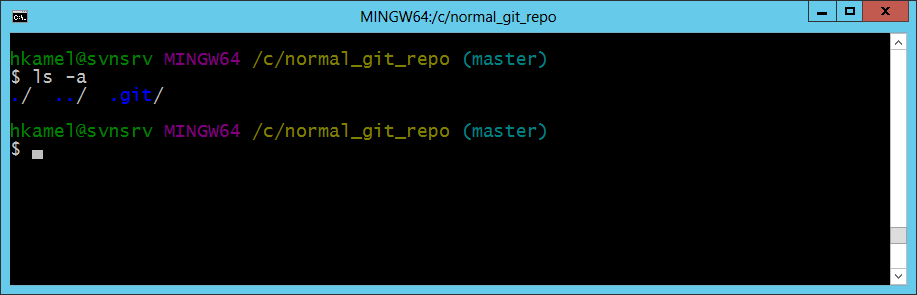
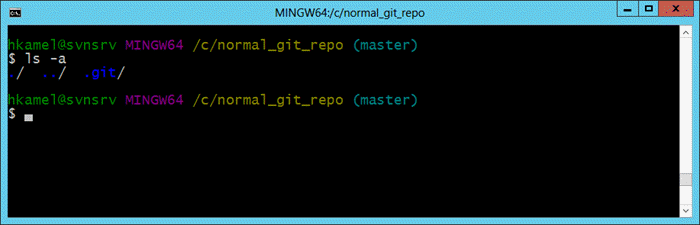
Resize images and run a final spell/grammar check. (#52)

diff --git a/src/Branching/perform-migration-from-svn-to-git.md b/src/Branching/perform-migration-from-svn-to-git.md
@@ -18,15 +18,15 @@ author: hkamel
 
 When moving to Git from another version control system like Subversion (SVN), we generally recommend that you perform a "[tip migration](https://www.visualstudio.com/learn/centralized-to-git/)", which migrates just the latest version of the repository contents, without including history.  However, many people want to perform a more advanced migration, including history.  This guidance will introduce a history _with_ migration.
 
-Subversion migrations to Git can vary in complexity, depending on how old the repository is and how many branches were created and merged, as well as if you use regular SVN or close relative like SVK to do the branching and merging. If you have a fairly new repository and the standard setup of a trunk, branches, and tags directory, the migration process could be straightforward. However, if your team has done a lot of branching and merging, your repository follows a non-standard directory setup, or your directory setup has changed over time then the migration process could be considerably more complex.
+Subversion migrations to Git can vary in complexity, depending on how old the repository is and how many branches were created and merged, as well as if you use regular SVN or close relative like SVK to do the branching and merging. If you have a new repository and the standard setup of a trunk, branches, and tags directory, the migration process could be straightforward. However, if your team has done a lot of branching and merging, your repository follows a non-standard directory setup, or your directory setup has changed over time then the migration process could be considerably more complex.
 
-There are several ways to migrate from SVN to Git. The approach outlined in this article is based on using [git-svn](https://git-scm.com/docs/git-svn), a Git extension which can be used to checkout a Subversion repository to a local Git repository and then push changes from the local Git repository back to the Subversion repository. These steps provide a detailed overview of the process for migrating from SVN to Git in a Windows environment, without synchronizing back to the original SVN repository. The end result will be a bare Git repository for sharing with the rest of your team.
+There are several ways to migrate from SVN to Git. The approach outlined in this article is based on using [git-svn](https://git-scm.com/docs/git-svn), a Git extension which can be used to checkout a Subversion repository to a local Git repository and then push changes from the local Git repository back to the Subversion repository. These steps give a detailed overview of the process for migrating from SVN to Git in a Windows environment, without synchronizing back to the original SVN repository. The result will be a bare Git repository for sharing with the rest of your team.
 
 > [!NOTE]
 >
 > Before you try to migrate your source code from a centralized version control system to Git, be sure that you familiarize yourself with the differences between centralized and distributed version control systems, and [plan your team's migration](https://www.visualstudio.com/learn/centralized-to-git/). After you've prepared, you can begin the migration.
 
-The high level workflow for migrating from SVN to Git is as follows:
+The high-level workflow for migrating from SVN to Git is as follows:
 
 * Prepare a migration environment
 * Convert the source SVN repository to a local Git repository
@@ -37,7 +37,7 @@ The high level workflow for migrating from SVN to Git is as follows:
 
 ## Prepare a migration environment
 
-A migration environment should be configured on a local workstation. The following software will need to be installed on the migration workstation:
+Configure a migration environment on a local workstation and install the following software:
 
 * [Git](https://git-for-windows.github.io/)
 * [Subversion](http://subversion.apache.org/packages.html)
@@ -48,7 +48,7 @@ You will also need to create a Git repository on your VSTS account to host the c
 
 ## Convert the source SVN repository to a local Git repository
 
-The goal of this step is to convert the source Subversion repository to a local *bare* Git repository. A *bare* Git repository repository does not have a local working checkout of files that can be modified, instead it only contains the repository's history and the metadata about the repository itself.This is the recommended format for sharing a Git repository via a remote repository hosted on a service like VSTS.
+The goal of this step is to convert the source Subversion repository to a local *bare* Git repository. A *bare* Git repository does not have a local working checkout of files that can be changed, instead it only contains the repository's history and the metadata about the repository itself. This is the recommended format for sharing a Git repository via a remote repository hosted on a service like VSTS.
 
 > [!TIP]
 > *bare* Git repositories are structured differently and given the fact that it doesn't have a working directory prevent direct commit to the repository.
@@ -56,7 +56,7 @@ The goal of this step is to convert the source Subversion repository to a local 
 
 ### Retrieve a list of all Subversion authors
 
-Subversion just uses the username for each commit, while Git stores both a real name and an email address. By default, The git-svn tool will list the SVN username in the author and email fields. However, you can create a mapping file for SVN users along with their corresponding Git names and emails.
+Subversion just uses the username for each commit, while Git stores both a real name and an email address. By default, the git-svn tool will list the SVN username in the author and email fields. However, you can create a mapping file for SVN users along with their corresponding Git names and emails.
 
 
 *Subversion users*
@@ -65,27 +65,27 @@ Subversion just uses the username for each commit, while Git stores both a real 
 *Git users*
 ![git users](_img/perform-migration-from-svn-to-git/git-log.png)
 
-To extract a list of all SVN users, from the root of your local Subversion checkout, run this Powershell command:
+To extract a list of all SVN users, from the root of your local Subversion checkout, run this PowerShell command:
 
 ```
 svn.exe log --quiet | ? { $_ -notlike '-*' } | % { ($_ -split ' | ')[1] } | Select-Object -Unique
 ```
-This command will retrieve all the log messages, extract the usernames, eliminate any duplicate usernames, sort the usernames and place them into a "authors-transform.txt" file. You can then edit each line in the file to create a mapping of SVN users to a well-formatted Git user. For example, you can map `willys = willys <willys> ` to `willys =  Willy-Peter Schaub <willys@microsoft.com>` .
+This command will retrieve all the log messages, extract the usernames, eliminate any duplicate usernames, sort the usernames and place them into a "authors-transform.txt" file. You can then edit each line in the file to create a mapping of SVN users to a well-formatted Git user. For example, you can map `willys = willys <willys> ` to `willys =  Willy Schaub <willys@microsoft.com>`.
 
 ### Clone the Subversion repository using git-svn
 
-The following command will do the standard git-svn transformation using the authors-transform.txt file created in the previous step. It will place the Git repository in the `c:\mytempdir` folder in your local machine.
+The following command will do the standard git-svn transformation using the authors-transform.txt file created in the earlier step. It will place the Git repository in the `c:\mytempdir` folder in your local machine.
 ```
 git svn clone ["SVN repo URL"] --prefix=svn/ --no-metadata --authors-file "authors-transform.txt" --stdlayout c:\mytempdir
 ```
 
 > [!NOTE]
 >
-> The --prefix=svn/ is necessary because otherwise the tools can't tell apart SVN revisions from imported ones. Setting a prefix (with a trailing slash) is strongly encouraged in any case, as your SVN-tracking refs will then be located at "refs/remotes/$prefix/", which is compatible with Git's own remote-tracking ref layout (refs/remotes/$remote/).
+> The --prefix=svn/ is necessary because otherwise the tools can't tell apart SVN revisions from imported ones. We recommend setting a prefix (with a trailing slash), as your SVN-tracking refs will then be located at "refs/remotes/$prefix/", which is compatible with Git's own remote-tracking ref layout (refs/remotes/$remote/).
 >
 > Setting a prefix is also useful if you wish to track multiple projects that share a common repository. By default, the prefix is set to origin/.
 
-If you are using the standard trunk, branches, tags layout you'll just put `--stdlayout`. However if you have something different you may have to pass the `--trunk`, `--branches`, and `--tags` in to identify what is what. For example if your repository structure was `trunk/companydir` and you branched that instead of trunk, you would probably want `--trunk=trunk/companydir --branches=branches`.
+If you are using the standard trunk, branches, tags layout you'll just put `--stdlayout`. However, if you have something different you may have to pass the `--trunk`, `--branches`, and `--tags` to find what is what. For example, if your repository structure was `trunk/companydir` and you branched that instead of trunk, you would probably want `--trunk=trunk/companydir --branches=branches`.
 
 ```
 git svn clone ["SVN repo URL"] --prefix=svn/ --no-metadata --trunk=/trunk --branches=/branches --tags=/tags  --authors-file "authors-transform.txt" c:\mytempdir
@@ -148,13 +148,13 @@ git for-each-ref --format='%(refname)' refs/heads/tags | % { $.Replace('refs/hea
 
 ### Create all the SVN branches as proper Git branches
 
-While it's easy to create all SVN branches as a proper Git branches, we do recommend that you evaluate the following points before you proceed:
+While it's easy to create all SVN branches as a proper Git branches, we do recommend that you evaluate the following points before you continue:
 
 - In case of Feature branches - can you wait until they integrate to the trunk before migrating?
 
 - In case of Release branches -does it make sense to keep SVN around for servicing?  If you migrate feature branches, are you prepared to service branches out of Git?
 
-If you still want to migrate existing branches, then running the following Powershell command will help
+If you still want to migrate existing branches, then running the following PowerShell command will help
 ```
 git for-each-ref --format='%(refname)' refs/remotes | % { $.Replace('refs/remotes/','') } | % { git branch "$" "refs/remotes/$"; git branch -r -d "$"; }
 
